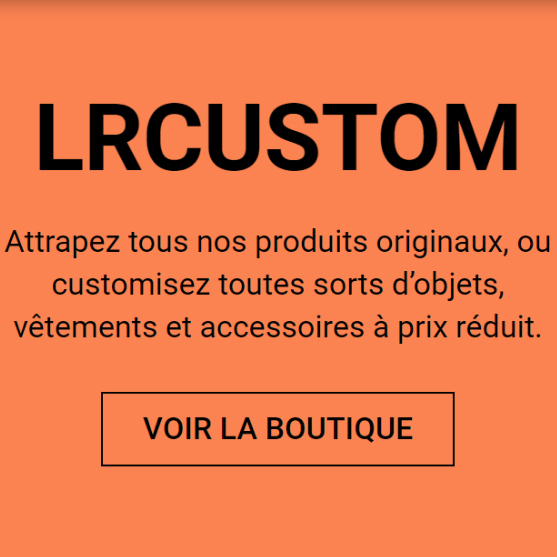
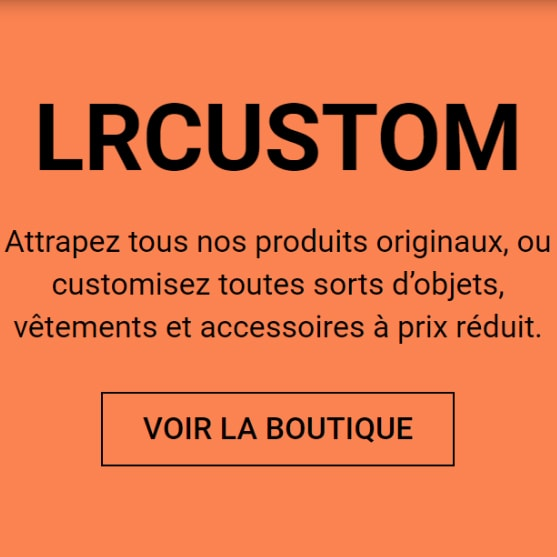
maj CV, compression img

diff --git a/index.html b/index.html
@@ -122,7 +122,7 @@
 
     <div class="container text-center mb-5">
       <a id="download-resume" class="btn btn-outline-primary btn-lg" href="files/ABOUDOU_El-haire_CV.pdf"
-        download="ABOUDOU_El-haire_CV" target="_blank"><i class="fas fa-file mr-2"></i> TÉLÉCHARGER MON CV</a>
+        download="ABOUDOU_El-haire_CV" target="_blank"><i class="fas fa-file mr-2"></i>TÉLÉCHARGER MON CV</a>
     </div>
 
     <section id="skills" class="container mb-5 mt-plus">
@@ -151,8 +151,8 @@
             </div>
             <div class="card-body">
               <ul class="list-unstyled">
-                <li><i class="fab fa-node mr-2"></i>Node.js</li>
-                <li><i class="fab fa-php mr-2"></i>PHP - <i class="devicon-symfony-original mr-2"></i>Symfony</li>
+                <li><i class="fab fa-node mr-2"></i>Node.js -<i class="devicon-express-original mx-2"></i>Express</li>
+                <li><i class="fab fa-php mr-2"></i>PHP -<i class="devicon-symfony-original mx-2"></i>Symfony</li>
                 <li><i class="fas fa-cog mr-2"></i>API REST</li>
                 <li><i class="devicon-mongodb-plain mr-2"></i>MongoDB</li>
                 <li><i class="devicon-mysql-plain mr-2"></i></i>MySQL</li>
@@ -197,6 +197,7 @@
               <ul class="list-unstyled">
                 <li><i class="fab fa-adobe mr-2"></i>Adobe XD</li>
                 <li><i class="fab fa-windows mr-2"></i>Suite office</li>
+                <li><i class="fas fa-user-edit mr-2"></i>Design Thinking</li>
               </ul>
             </div>
         </li>

diff --git a/projets/sleepshop.html b/projets/sleepshop.html
@@ -7,7 +7,7 @@
     <meta name="viewport" content="width=device-width, initial-scale=1, shrink-to-fit=no">
 
     <!-- Favicon -->
-    <link rel="icon" href="img/favicon.ico" />
+    <link rel="icon" href="../img/favicon.ico" />
 
     <!-- Bootstrap CSS -->
     <link rel="stylesheet" href="https://stackpath.bootstrapcdn.com/bootstrap/4.2.1/css/bootstrap.min.css"
@@ -86,8 +86,9 @@
                     <h2 class="font-weight-bold">Description</h2>
                     <p>SleepShop est le site e-commerce fictif vendant des produits pour les personnes atteintes
                         de problèmes de sommeil, ou qui veulent avoir un meilleur sommeil tout simplement, et
-                        cela, à moindre coût. <br>En effet, en
-                        France, 1 personne sur 3 est concernée par un trouble du sommeil. Et ils sont nombreux…
+                        cela, à moindre coût.</p>
+                    <p>En effet, en France, 1 personne sur 3 est concernée par un trouble du sommeil. Et ils sont
+                        nombreux…
                     </p>
                     <h2 class="font-weight-bold">Technologies utilisées</h2>
                     <ul class="list-inline">

diff --git a/projets/carrot-mania.html b/projets/carrot-mania.html
@@ -7,7 +7,7 @@
     <meta name="viewport" content="width=device-width, initial-scale=1, shrink-to-fit=no">
 
     <!-- Favicon -->
-    <link rel="icon" href="img/favicon.ico" />
+    <link rel="icon" href="../img/favicon.ico" />
 
     <!-- Bootstrap CSS -->
     <link rel="stylesheet" href="https://stackpath.bootstrapcdn.com/bootstrap/4.2.1/css/bootstrap.min.css"

diff --git a/projets/lrcustom.html b/projets/lrcustom.html
@@ -7,7 +7,7 @@
     <meta name="viewport" content="width=device-width, initial-scale=1, shrink-to-fit=no">
 
     <!-- Favicon -->
-    <link rel="icon" href="img/favicon.ico" />
+    <link rel="icon" href="../img/favicon.ico" />
 
     <!-- Bootstrap CSS -->
     <link rel="stylesheet" href="https://stackpath.bootstrapcdn.com/bootstrap/4.2.1/css/bootstrap.min.css"

diff --git a/projets/mondrian.html b/projets/mondrian.html
@@ -7,7 +7,7 @@
     <meta name="viewport" content="width=device-width, initial-scale=1, shrink-to-fit=no">
 
     <!-- Favicon -->
-    <link rel="icon" href="img/favicon.ico" />
+    <link rel="icon" href="../img/favicon.ico" />
 
     <!-- Bootstrap CSS -->
     <link rel="stylesheet" href="https://stackpath.bootstrapcdn.com/bootstrap/4.2.1/css/bootstrap.min.css"

diff --git a/projets/o2quant.html b/projets/o2quant.html
@@ -7,7 +7,7 @@
     <meta name="viewport" content="width=device-width, initial-scale=1, shrink-to-fit=no">
 
     <!-- Favicon -->
-    <link rel="icon" href="img/favicon.ico" />
+    <link rel="icon" href="../img/favicon.ico" />
 
     <!-- Bootstrap CSS -->
     <link rel="stylesheet" href="https://stackpath.bootstrapcdn.com/bootstrap/4.2.1/css/bootstrap.min.css"

diff --git a/projets/rien.html b/projets/rien.html
@@ -7,7 +7,7 @@
   <meta name="viewport" content="width=device-width, initial-scale=1, shrink-to-fit=no">
 
   <!-- Favicon -->
-  <link rel="icon" href="img/favicon.ico" />
+  <link rel="icon" href="../img/favicon.ico" />
 
   <!-- Bootstrap CSS -->
   <link rel="stylesheet" href="https://stackpath.bootstrapcdn.com/bootstrap/4.2.1/css/bootstrap.min.css"
